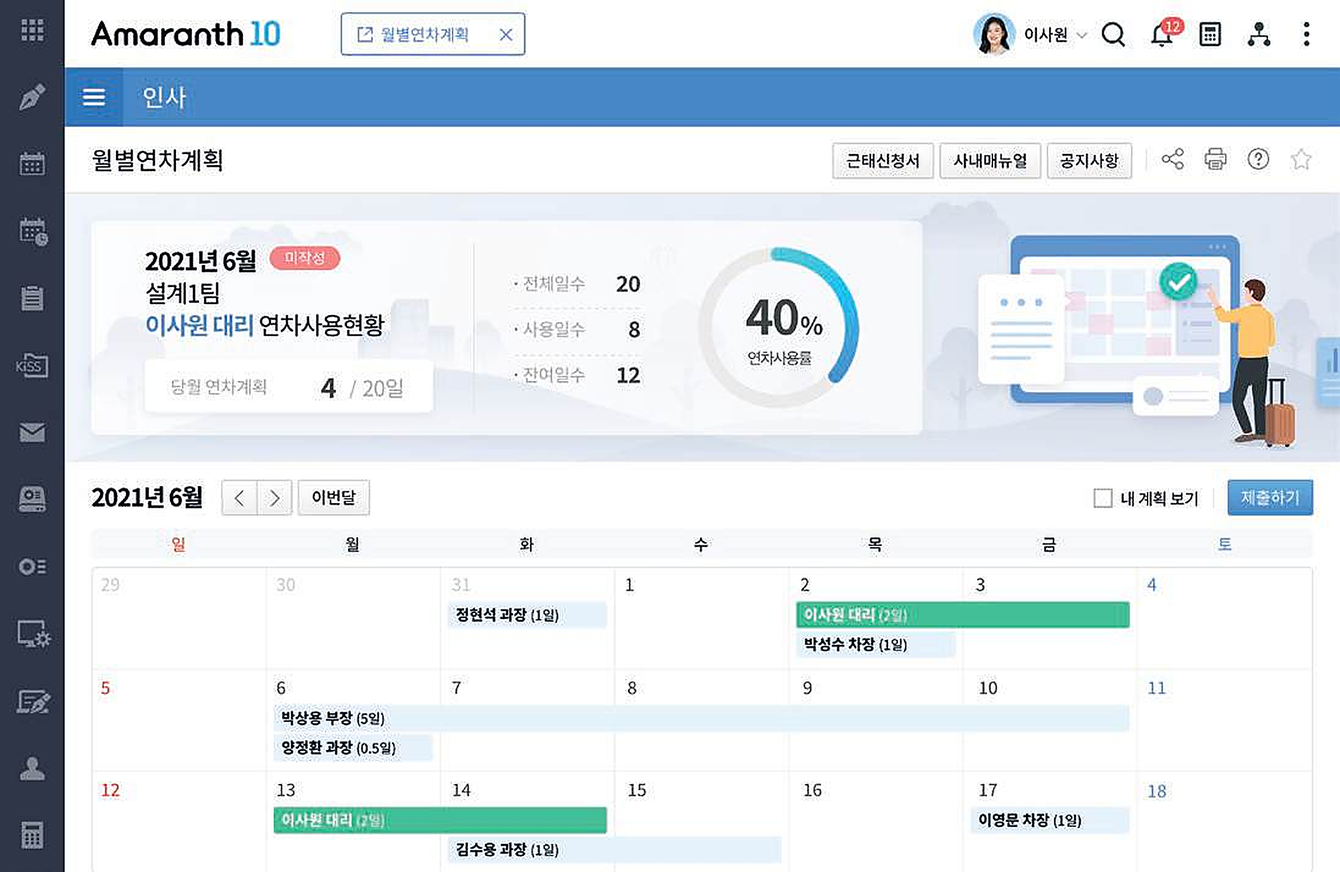
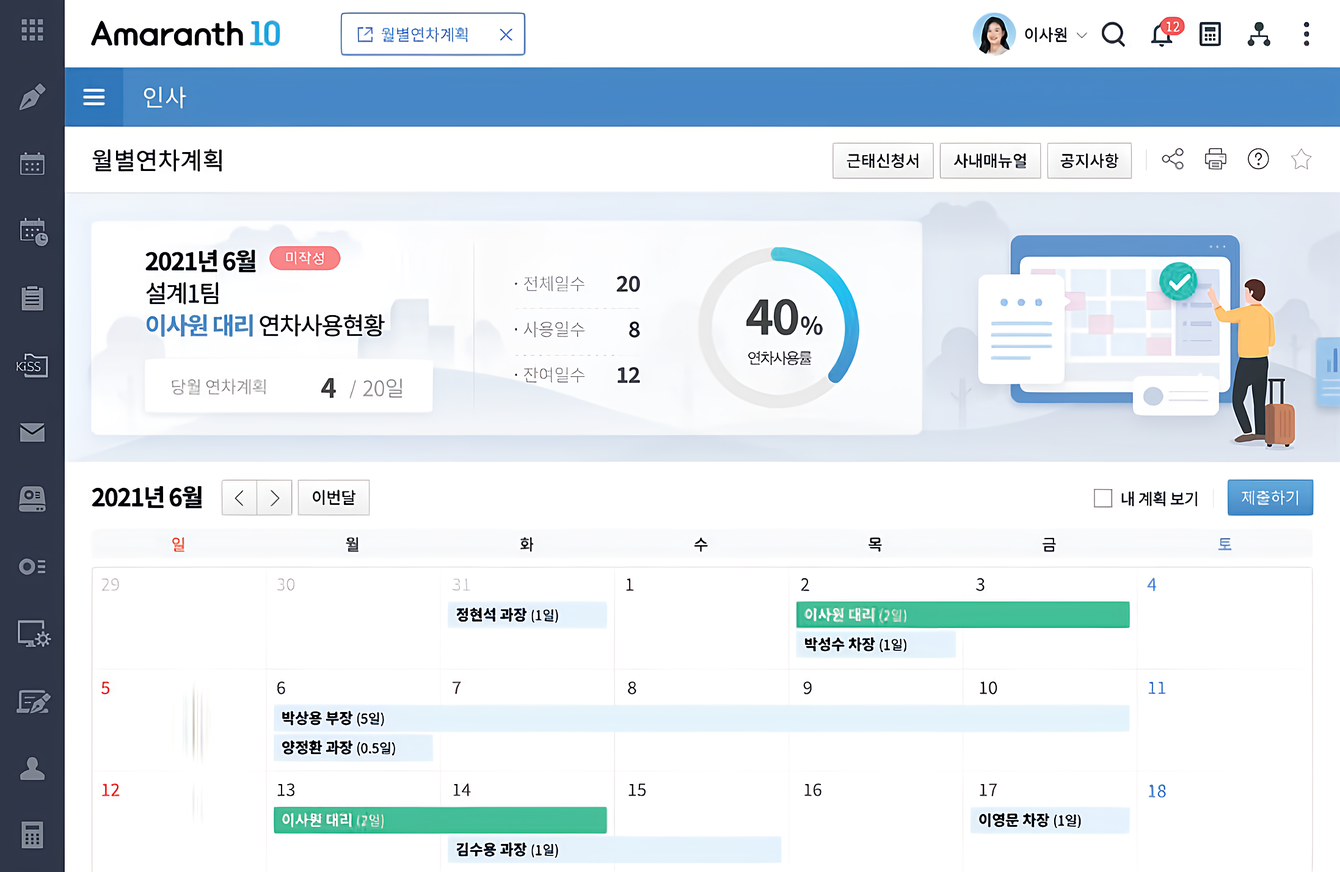
Sharpen the brochure screens with the non-GAN RealESRNet model
RealESRNet_x4plus removes the brochure's JPEG noise without inventing detail; every
output was checked against its source so the Korean glyphs keep their shape.

Claude-Session: https://claude.ai/code/session_01SPawHb8dbXAtWqwsG92Z1g

diff --git a/subpages/product/nonprofit/intro.html b/subpages/product/nonprofit/intro.html
@@ -88,7 +88,7 @@
 						진행할 수 있습니다.
 					</p>
 				<div class="tag-row sb-area-tags" aria-label="회계관리 관련 키워드"><span class="tag">#지출결의</span><span class="tag">#결산</span><span class="tag">#부가가치세관리</span><span class="tag">#금융서비스연동(CMS)</span><span class="tag">#그룹재무제표</span><span class="tag">#자동전표처리</span><span class="tag">#반제처리</span><span class="tag">#자금수지계획</span><span class="tag">#법인세관리</span><span class="tag">#자금일보</span></div></div>
-				<div class="img sb-feature-visual"><figure class="sb-unframed-screen sb-clarity-restored" data-screen-presentation="unframed" style="--sb-screen-ratio:1.536789;--sb-preview-ratio:1.536789;--sb-preview-height:516px;--sb-preview-padding:0px" data-screen-content="complete" data-native-screen="source-041" data-native-review-id="70" data-quality-screen="brochure"><a class="sb-screen-zoom" href="../../../assets/subpages/brochure-screens/automatic-journals.png?v=2" aria-label="Amaranth 10 자동전표처리 실제 제품 화면 크게 보기"><img class="sb-flat-screen" loading="lazy" src="../../../assets/subpages/brochure-screens/automatic-journals.png?v=2" alt="Amaranth 10 자동전표처리 실제 제품 화면" width="1838" height="1196" data-quality-id="source-041"></a></figure></div>
+				<div class="img sb-feature-visual"><figure class="sb-unframed-screen sb-clarity-restored" data-screen-presentation="unframed" style="--sb-screen-ratio:1.536789;--sb-preview-ratio:1.536789;--sb-preview-height:516px;--sb-preview-padding:0px" data-screen-content="complete" data-native-screen="source-041" data-native-review-id="70" data-quality-screen="brochure"><a class="sb-screen-zoom" href="../../../assets/subpages/brochure-screens/automatic-journals.png?v=3" aria-label="Amaranth 10 자동전표처리 실제 제품 화면 크게 보기"><img class="sb-flat-screen" loading="lazy" src="../../../assets/subpages/brochure-screens/automatic-journals.png?v=3" alt="Amaranth 10 자동전표처리 실제 제품 화면" width="1838" height="1196" data-quality-id="source-041"></a></figure></div>
 			</div>
 			<div class="hr02 sb-feature sb-design-row sb-centered-feature sb-zigzag-feature" data-layout="visual-left" data-screen-layout="visual-left">
 				<div class="cont_txt sb-feature-copy">
@@ -509,7 +509,7 @@
                     </p>
                     <div class="tag-row sb-area-tags" aria-label="자동전표처리 관련 키워드"><span class="tag">#자동전표처리</span></div><a href="https://youtu.be/8vVOLh3XUzg?si=iY8KAsuRsYNz-_Nw" class="youtb_btn cta sb-product-cta" data-fancybox="" target="_blank" rel="noopener noreferrer">영상으로 확인하기 </a>
                 </div>
-                <div class="img sb-feature-visual"><figure class="sb-unframed-screen sb-clarity-restored" data-screen-presentation="unframed" style="--sb-screen-ratio:1.536789;--sb-preview-ratio:1.536789;--sb-preview-height:516px;--sb-preview-padding:0px" data-screen-content="complete" data-native-screen="source-041" data-native-review-id="86" data-quality-screen="brochure"><a class="sb-screen-zoom" href="../../../assets/subpages/brochure-screens/automatic-journals.png?v=2" aria-label="Amaranth 10 자동전표처리 실제 제품 화면 크게 보기"><img class="sb-flat-screen" loading="lazy" src="../../../assets/subpages/brochure-screens/automatic-journals.png?v=2" alt="Amaranth 10 자동전표처리 실제 제품 화면" width="1838" height="1196" data-quality-id="source-041"></a></figure></div>
+                <div class="img sb-feature-visual"><figure class="sb-unframed-screen sb-clarity-restored" data-screen-presentation="unframed" style="--sb-screen-ratio:1.536789;--sb-preview-ratio:1.536789;--sb-preview-height:516px;--sb-preview-padding:0px" data-screen-content="complete" data-native-screen="source-041" data-native-review-id="86" data-quality-screen="brochure"><a class="sb-screen-zoom" href="../../../assets/subpages/brochure-screens/automatic-journals.png?v=3" aria-label="Amaranth 10 자동전표처리 실제 제품 화면 크게 보기"><img class="sb-flat-screen" loading="lazy" src="../../../assets/subpages/brochure-screens/automatic-journals.png?v=3" alt="Amaranth 10 자동전표처리 실제 제품 화면" width="1838" height="1196" data-quality-id="source-041"></a></figure></div>
             </div>
             <div class="overview02 sb-feature sb-design-row sb-centered-feature sb-zigzag-feature" data-layout="visual-left" data-screen-layout="visual-left">
                 <div class="cont_txt sb-feature-copy">
@@ -591,7 +591,7 @@
                     </p>
                     <div class="tag-row sb-area-tags" aria-label="자금관리 관련 키워드"><span class="tag">#자금수지계획</span><span class="tag">#자금일보</span></div><a href="https://youtu.be/lMcinptekAo?si=e_etyYmCkUZ8QCJ4" class="youtb_btn cta sb-product-cta" data-fancybox="" target="_blank" rel="noopener noreferrer">영상으로 확인하기 </a>
                 </div>
-                <div class="img sb-feature-visual"><figure class="sb-unframed-screen" data-screen-presentation="unframed" style="--sb-screen-ratio:1.535865;--sb-preview-ratio:1.535865;--sb-preview-height:516px;--sb-preview-padding:0px" data-screen-content="complete" data-native-screen="source-076" data-native-review-id="91" data-quality-screen="brochure"><a class="sb-screen-zoom" href="../../../assets/subpages/brochure-screens/funds.png?v=2" aria-label="Amaranth 10 자금관리 실제 제품 화면 크게 보기"><img class="sb-flat-screen" loading="lazy" src="../../../assets/subpages/brochure-screens/funds.png?v=2" alt="Amaranth 10 자금관리 실제 제품 화면" width="1456" height="948" data-quality-id="source-076"></a></figure></div>
+                <div class="img sb-feature-visual"><figure class="sb-unframed-screen" data-screen-presentation="unframed" style="--sb-screen-ratio:1.535865;--sb-preview-ratio:1.535865;--sb-preview-height:516px;--sb-preview-padding:0px" data-screen-content="complete" data-native-screen="source-076" data-native-review-id="91" data-quality-screen="brochure"><a class="sb-screen-zoom" href="../../../assets/subpages/brochure-screens/funds.png?v=3" aria-label="Amaranth 10 자금관리 실제 제품 화면 크게 보기"><img class="sb-flat-screen" loading="lazy" src="../../../assets/subpages/brochure-screens/funds.png?v=3" alt="Amaranth 10 자금관리 실제 제품 화면" width="1456" height="948" data-quality-id="source-076"></a></figure></div>
             </div>
             <div class="overview07 sb-feature sb-design-row sb-centered-feature sb-zigzag-feature" data-layout="visual-right" data-screen-layout="visual-right">
                 <div class="cont_txt sb-feature-copy">
@@ -624,7 +624,7 @@
                     </p>
                     <div class="tag-row sb-area-tags" aria-label="세무신고자동화 관련 키워드"><span class="tag">#부가가치세관리</span><span class="tag">#법인세관리</span></div><a href="https://youtu.be/KDGEZgJHkpw?si=p0U9GLuG2FRY7U79" class="youtb_btn cta sb-product-cta" data-fancybox="" target="_blank" rel="noopener noreferrer">영상으로 확인하기 </a>
                 </div>
-                <div class="img sb-feature-visual"><figure class="sb-unframed-screen" data-screen-presentation="unframed" style="--sb-screen-ratio:1.536489;--sb-preview-ratio:1.536489;--sb-preview-height:516px;--sb-preview-padding:0px" data-screen-content="complete" data-native-screen="source-079" data-native-review-id="93" data-quality-screen="brochure"><a class="sb-screen-zoom" href="../../../assets/subpages/brochure-screens/tax-filing.png?v=2" aria-label="Amaranth 10 세무신고자동화 제품 화면 크게 보기"><img class="sb-flat-screen" loading="lazy" src="../../../assets/subpages/brochure-screens/tax-filing.png?v=2" alt="Amaranth 10 세무신고자동화 제품 화면" width="1558" height="1014" data-quality-id="source-079"></a></figure></div>
+                <div class="img sb-feature-visual"><figure class="sb-unframed-screen" data-screen-presentation="unframed" style="--sb-screen-ratio:1.536489;--sb-preview-ratio:1.536489;--sb-preview-height:516px;--sb-preview-padding:0px" data-screen-content="complete" data-native-screen="source-079" data-native-review-id="93" data-quality-screen="brochure"><a class="sb-screen-zoom" href="../../../assets/subpages/brochure-screens/tax-filing.png?v=3" aria-label="Amaranth 10 세무신고자동화 제품 화면 크게 보기"><img class="sb-flat-screen" loading="lazy" src="../../../assets/subpages/brochure-screens/tax-filing.png?v=3" alt="Amaranth 10 세무신고자동화 제품 화면" width="1558" height="1014" data-quality-id="source-079"></a></figure></div>
             </div>
             <div class="overview009 sb-feature sb-design-row sb-centered-feature sb-zigzag-feature" data-layout="visual-right" data-screen-layout="visual-right">
                 <div class="cont_txt sb-feature-copy">
@@ -687,7 +687,7 @@
                     </p>
                     <a href="https://youtu.be/6J2EmAe2nEQ?si=Lg2hNhujlv5vkZ82" class="youtb_btn cta sb-product-cta" data-fancybox="" target="_blank" rel="noopener noreferrer">영상으로 확인하기 </a>
                 </div>
-                <div class="img sb-feature-visual"><figure class="sb-unframed-screen sb-clarity-restored" data-screen-presentation="unframed" style="--sb-screen-ratio:1.536415;--sb-preview-ratio:1.536415;--sb-preview-height:516px;--sb-preview-padding:0px" data-screen-content="complete" data-native-screen="source-084" data-native-review-id="97" data-quality-screen="brochure"><a class="sb-screen-zoom" href="../../../assets/subpages/brochure-screens/annual-leave.png?v=2" aria-label="Amaranth 10 연차관리 실제 제품 화면 크게 보기"><img class="sb-flat-screen" loading="lazy" src="../../../assets/subpages/brochure-screens/annual-leave.png?v=2" alt="Amaranth 10 연차관리 실제 제품 화면" width="2194" height="1428" data-quality-id="source-084"></a></figure></div>
+                <div class="img sb-feature-visual"><figure class="sb-unframed-screen sb-clarity-restored" data-screen-presentation="unframed" style="--sb-screen-ratio:1.536415;--sb-preview-ratio:1.536415;--sb-preview-height:516px;--sb-preview-padding:0px" data-screen-content="complete" data-native-screen="source-084" data-native-review-id="97" data-quality-screen="brochure"><a class="sb-screen-zoom" href="../../../assets/subpages/brochure-screens/annual-leave.png?v=3" aria-label="Amaranth 10 연차관리 실제 제품 화면 크게 보기"><img class="sb-flat-screen" loading="lazy" src="../../../assets/subpages/brochure-screens/annual-leave.png?v=3" alt="Amaranth 10 연차관리 실제 제품 화면" width="2194" height="1428" data-quality-id="source-084"></a></figure></div>
             </div>
             <div class="hr04 sb-feature sb-design-row sb-centered-feature sb-zigzag-feature" data-layout="visual-right" data-screen-layout="visual-left">
                 <div class="cont_txt sb-feature-copy">
@@ -703,7 +703,7 @@
                     </p>
                     <a href="https://youtu.be/XEPKYA6YHpk?si=0drrsWrU1AXwEn0H" class="youtb_btn cta sb-product-cta" data-fancybox="" target="_blank" rel="noopener noreferrer">영상으로 확인하기 </a>
                 </div>
-                <div class="img sb-feature-visual"><figure class="sb-unframed-screen sb-clarity-restored" data-screen-presentation="unframed" style="--sb-screen-ratio:1.535019;--sb-preview-ratio:1.535019;--sb-preview-height:516px;--sb-preview-padding:0px" data-screen-content="complete" data-native-screen="source-086" data-native-review-id="98" data-quality-screen="brochure"><a class="sb-screen-zoom" href="../../../assets/subpages/brochure-screens/payroll.png?v=2" aria-label="Amaranth 10 급여관리 실제 제품 화면 크게 보기"><img class="sb-flat-screen" loading="lazy" src="../../../assets/subpages/brochure-screens/payroll.png?v=2" alt="Amaranth 10 급여관리 실제 제품 화면" width="1578" height="1028" data-quality-id="source-086"></a></figure></div>
+                <div class="img sb-feature-visual"><figure class="sb-unframed-screen sb-clarity-restored" data-screen-presentation="unframed" style="--sb-screen-ratio:1.535019;--sb-preview-ratio:1.535019;--sb-preview-height:516px;--sb-preview-padding:0px" data-screen-content="complete" data-native-screen="source-086" data-native-review-id="98" data-quality-screen="brochure"><a class="sb-screen-zoom" href="../../../assets/subpages/brochure-screens/payroll.png?v=3" aria-label="Amaranth 10 급여관리 실제 제품 화면 크게 보기"><img class="sb-flat-screen" loading="lazy" src="../../../assets/subpages/brochure-screens/payroll.png?v=3" alt="Amaranth 10 급여관리 실제 제품 화면" width="1578" height="1028" data-quality-id="source-086"></a></figure></div>
             </div>
             <div class="hr05 sb-feature sb-design-row sb-centered-feature sb-zigzag-feature" data-layout="visual-left" data-screen-layout="visual-right">
                 <div class="cont_txt sb-feature-copy">

diff --git a/subpages/product/amaranth10/lm.html b/subpages/product/amaranth10/lm.html
@@ -108,7 +108,7 @@
                         연계해 효율적인 업무 처리 기능을 제공합니다.
                     </p>
                 </div>
-                <div class="img sb-feature-visual"><figure class="sb-unframed-screen" data-screen-presentation="unframed" style="--sb-screen-ratio:1.619469;--sb-preview-ratio:1.619469;--sb-preview-height:516px;--sb-preview-padding:0px" data-screen-content="complete" data-native-screen="source-103" data-native-review-id="121" data-quality-screen="brochure"><a class="sb-screen-zoom" href="../../../assets/subpages/brochure-screens/mps.png?v=2" aria-label="Amaranth 10 주생산계획등록(MPS) 실제 제품 화면 크게 보기"><img class="sb-flat-screen" loading="lazy" src="../../../assets/subpages/brochure-screens/mps.png?v=2" alt="Amaranth 10 주생산계획등록(MPS) 실제 제품 화면" width="1464" height="904" data-quality-id="source-103"></a></figure></div>
+                <div class="img sb-feature-visual"><figure class="sb-unframed-screen" data-screen-presentation="unframed" style="--sb-screen-ratio:1.619469;--sb-preview-ratio:1.619469;--sb-preview-height:516px;--sb-preview-padding:0px" data-screen-content="complete" data-native-screen="source-103" data-native-review-id="121" data-quality-screen="brochure"><a class="sb-screen-zoom" href="../../../assets/subpages/brochure-screens/mps.png?v=3" aria-label="Amaranth 10 주생산계획등록(MPS) 실제 제품 화면 크게 보기"><img class="sb-flat-screen" loading="lazy" src="../../../assets/subpages/brochure-screens/mps.png?v=3" alt="Amaranth 10 주생산계획등록(MPS) 실제 제품 화면" width="1464" height="904" data-quality-id="source-103"></a></figure></div>
             </div>
             <div class="lm07 sb-feature sb-design-row sb-centered-feature sb-zigzag-feature" data-layout="visual-right" data-screen-layout="visual-right">
                 <div class="cont_txt sb-feature-copy">
@@ -160,7 +160,7 @@
                         환율 환종 관리 기능을 제공합니다.
                     </p>
                 </div>
-                <div class="img sb-feature-visual"><figure class="sb-unframed-screen" data-screen-presentation="unframed" style="--sb-screen-ratio:1.622642;--sb-preview-ratio:1.622642;--sb-preview-height:516px;--sb-preview-padding:0px" data-screen-content="complete" data-native-screen="source-109" data-native-review-id="124" data-quality-screen="brochure"><a class="sb-screen-zoom" href="../../../assets/subpages/brochure-screens/domestic-overseas-sales.png?v=2" aria-label="Amaranth 10 국내/외 영업통합관리 실제 제품 화면 크게 보기"><img class="sb-flat-screen" loading="lazy" src="../../../assets/subpages/brochure-screens/domestic-overseas-sales.png?v=2" alt="Amaranth 10 국내/외 영업통합관리 실제 제품 화면" width="1548" height="954" data-quality-id="source-109"></a></figure></div>
+                <div class="img sb-feature-visual"><figure class="sb-unframed-screen" data-screen-presentation="unframed" style="--sb-screen-ratio:1.622642;--sb-preview-ratio:1.622642;--sb-preview-height:516px;--sb-preview-padding:0px" data-screen-content="complete" data-native-screen="source-109" data-native-review-id="124" data-quality-screen="brochure"><a class="sb-screen-zoom" href="../../../assets/subpages/brochure-screens/domestic-overseas-sales.png?v=3" aria-label="Amaranth 10 국내/외 영업통합관리 실제 제품 화면 크게 보기"><img class="sb-flat-screen" loading="lazy" src="../../../assets/subpages/brochure-screens/domestic-overseas-sales.png?v=3" alt="Amaranth 10 국내/외 영업통합관리 실제 제품 화면" width="1548" height="954" data-quality-id="source-109"></a></figure></div>
             </div>
         </div>
 	</div></main><footer><div class="footer-top"><div><a class="footer-brand" href="../../../index.html"><img src="../../../assets/ax-logo.png" alt="AX and More"><img src="../../../assets/logo.png" alt="DOUZONE 아이원소프트뱅크"></a><p>ERP · 그룹웨어 · 시스템 연동 · 맞춤 개발까지<br>비즈니스 환경에 최적화된 솔루션을 제공합니다.</p></div><div class="socials"><a href="https://cafe.naver.com/ionesoftbank" target="_blank" rel="noopener noreferrer"><img src="../../../assets/social-cafe.png" alt="카페"></a><a href="https://www.instagram.com/ione130501" target="_blank" rel="noopener noreferrer"><img src="../../../assets/social-instagram.png" alt="인스타그램"></a><a href="https://blog.naver.com/zhogksgjqm" target="_blank" rel="noopener noreferrer"><img src="../../../assets/social-blog.png" alt="블로그"></a><a href="http://pf.kakao.com/_xnFVzK" target="_blank" rel="noopener noreferrer"><img src="../../../assets/social-kakao.png" alt="카카오톡"></a><a href="https://youtube.com/@IONEsoftBK_official" target="_blank" rel="noopener noreferrer"><img src="../../../assets/social-youtube.png" alt="유튜브"></a></div></div><nav><button type="button" data-modal="privacy">개인정보 처리방침</button><button type="button" data-modal="terms">이용약관</button><a href="../../../subpages/company/location.html">오시는 길</a></nav><p>아이원소프트뱅크㈜ 대표 : 황명희 · 사업자등록번호 : 113-86-70956 · 통신판매신고번호 : 2017-서울구로-0617<br>주소 : 서울특별시 구로구 디지털로 285 에이스트윈타워 1차 405호<br>구매상담문의 : 1877-0256 · 고객센터 : 1877-1859 · iCUBE / G20 : 1877-0840 · 블루멤버십 : 1600-4208 · 테스트 계정 신청 : 070-4497-3388<br><br>COPYRIGHT © 2026 아이원소프트뱅크㈜. All rights reserved.</p></footer><section class="legal-modal" id="privacy-modal" aria-hidden="true" role="dialog" aria-modal="true" aria-labelledby="privacy-title"><div class="legal-dialog"><button class="modal-close" type="button" aria-label="닫기">×</button><h2 id="privacy-title">개인정보 처리방침</h2><div class="legal-scroll">문서를 불러오는 중입니다.</div></div></section><section class="legal-modal" id="terms-modal" aria-hidden="true" role="dialog" aria-modal="true" aria-labelledby="terms-title"><div class="legal-dialog"><button class="modal-close" type="button" aria-label="닫기">×</button><h2 id="terms-title">이용약관</h2><div class="legal-scroll">문서를 불러오는 중입니다.</div></div></section><dialog class="sb-preview-dialog"><p>공개 페이지 기반 미리보기입니다. 이 기능은 기존 사이트에서 이용할 수 있습니다.</p><a href="https://www.duzon119.co.kr/product/amaranth10/lm.asp">기존 페이지 열기 ↗</a><button type="button">닫기</button></dialog></div><script src="../../../app.js?v=20261023-3" defer=""></script></body></html>

diff --git a/subpages/product/amaranth10/overview.html b/subpages/product/amaranth10/overview.html
@@ -29,7 +29,7 @@
                     </p>
                     <div class="tag-row sb-area-tags" aria-label="자동전표처리 관련 키워드"><span class="tag">#자동전표처리</span></div><a href="https://youtu.be/8vVOLh3XUzg?si=iY8KAsuRsYNz-_Nw" class="youtb_btn cta sb-product-cta" data-fancybox="" target="_blank" rel="noopener noreferrer">영상으로 확인하기 </a>
                 </div>
-                <div class="img sb-feature-visual"><figure class="sb-unframed-screen sb-clarity-restored" data-screen-presentation="unframed" style="--sb-screen-ratio:1.536789;--sb-preview-ratio:1.536789;--sb-preview-height:516px;--sb-preview-padding:0px" data-screen-content="complete" data-native-screen="source-041" data-native-review-id="107" data-quality-screen="brochure"><a class="sb-screen-zoom" href="../../../assets/subpages/brochure-screens/automatic-journals.png?v=2" aria-label="Amaranth 10 자동전표처리 실제 제품 화면 크게 보기"><img class="sb-flat-screen" loading="lazy" src="../../../assets/subpages/brochure-screens/automatic-journals.png?v=2" alt="Amaranth 10 자동전표처리 실제 제품 화면" width="1838" height="1196" data-quality-id="source-041"></a></figure></div>
+                <div class="img sb-feature-visual"><figure class="sb-unframed-screen sb-clarity-restored" data-screen-presentation="unframed" style="--sb-screen-ratio:1.536789;--sb-preview-ratio:1.536789;--sb-preview-height:516px;--sb-preview-padding:0px" data-screen-content="complete" data-native-screen="source-041" data-native-review-id="107" data-quality-screen="brochure"><a class="sb-screen-zoom" href="../../../assets/subpages/brochure-screens/automatic-journals.png?v=3" aria-label="Amaranth 10 자동전표처리 실제 제품 화면 크게 보기"><img class="sb-flat-screen" loading="lazy" src="../../../assets/subpages/brochure-screens/automatic-journals.png?v=3" alt="Amaranth 10 자동전표처리 실제 제품 화면" width="1838" height="1196" data-quality-id="source-041"></a></figure></div>
             </div>
             <div class="overview02 sb-feature sb-design-row sb-centered-feature sb-zigzag-feature" data-layout="visual-left" data-screen-layout="visual-left">
                 <div class="cont_txt sb-feature-copy">
@@ -111,7 +111,7 @@
                     </p>
                     <div class="tag-row sb-area-tags" aria-label="자금관리 관련 키워드"><span class="tag">#자금수지계획</span><span class="tag">#자금일보</span></div><a href="https://youtu.be/lMcinptekAo?si=e_etyYmCkUZ8QCJ4" class="youtb_btn cta sb-product-cta" data-fancybox="" target="_blank" rel="noopener noreferrer">영상으로 확인하기 </a>
                 </div>
-                <div class="img sb-feature-visual"><figure class="sb-unframed-screen" data-screen-presentation="unframed" style="--sb-screen-ratio:1.535865;--sb-preview-ratio:1.535865;--sb-preview-height:516px;--sb-preview-padding:0px" data-screen-content="complete" data-native-screen="source-076" data-native-review-id="112" data-quality-screen="brochure"><a class="sb-screen-zoom" href="../../../assets/subpages/brochure-screens/funds.png?v=2" aria-label="Amaranth 10 자금관리 실제 제품 화면 크게 보기"><img class="sb-flat-screen" loading="lazy" src="../../../assets/subpages/brochure-screens/funds.png?v=2" alt="Amaranth 10 자금관리 실제 제품 화면" width="1456" height="948" data-quality-id="source-076"></a></figure></div>
+                <div class="img sb-feature-visual"><figure class="sb-unframed-screen" data-screen-presentation="unframed" style="--sb-screen-ratio:1.535865;--sb-preview-ratio:1.535865;--sb-preview-height:516px;--sb-preview-padding:0px" data-screen-content="complete" data-native-screen="source-076" data-native-review-id="112" data-quality-screen="brochure"><a class="sb-screen-zoom" href="../../../assets/subpages/brochure-screens/funds.png?v=3" aria-label="Amaranth 10 자금관리 실제 제품 화면 크게 보기"><img class="sb-flat-screen" loading="lazy" src="../../../assets/subpages/brochure-screens/funds.png?v=3" alt="Amaranth 10 자금관리 실제 제품 화면" width="1456" height="948" data-quality-id="source-076"></a></figure></div>
             </div>
             <div class="overview07 sb-feature sb-design-row sb-centered-feature sb-zigzag-feature" data-layout="visual-right" data-screen-layout="visual-right">
                 <div class="cont_txt sb-feature-copy">
@@ -144,7 +144,7 @@
                     </p>
                     <div class="tag-row sb-area-tags" aria-label="세무신고자동화 관련 키워드"><span class="tag">#부가가치세관리</span><span class="tag">#법인세관리</span></div><a href="https://youtu.be/KDGEZgJHkpw?si=p0U9GLuG2FRY7U79" class="youtb_btn cta sb-product-cta" data-fancybox="" target="_blank" rel="noopener noreferrer">영상으로 확인하기 </a>
                 </div>
-                <div class="img sb-feature-visual"><figure class="sb-unframed-screen" data-screen-presentation="unframed" style="--sb-screen-ratio:1.536489;--sb-preview-ratio:1.536489;--sb-preview-height:516px;--sb-preview-padding:0px" data-screen-content="complete" data-native-screen="source-079" data-native-review-id="114" data-quality-screen="brochure"><a class="sb-screen-zoom" href="../../../assets/subpages/brochure-screens/tax-filing.png?v=2" aria-label="Amaranth 10 세무신고자동화 제품 화면 크게 보기"><img class="sb-flat-screen" loading="lazy" src="../../../assets/subpages/brochure-screens/tax-filing.png?v=2" alt="Amaranth 10 세무신고자동화 제품 화면" width="1558" height="1014" data-quality-id="source-079"></a></figure></div>
+                <div class="img sb-feature-visual"><figure class="sb-unframed-screen" data-screen-presentation="unframed" style="--sb-screen-ratio:1.536489;--sb-preview-ratio:1.536489;--sb-preview-height:516px;--sb-preview-padding:0px" data-screen-content="complete" data-native-screen="source-079" data-native-review-id="114" data-quality-screen="brochure"><a class="sb-screen-zoom" href="../../../assets/subpages/brochure-screens/tax-filing.png?v=3" aria-label="Amaranth 10 세무신고자동화 제품 화면 크게 보기"><img class="sb-flat-screen" loading="lazy" src="../../../assets/subpages/brochure-screens/tax-filing.png?v=3" alt="Amaranth 10 세무신고자동화 제품 화면" width="1558" height="1014" data-quality-id="source-079"></a></figure></div>
             </div>
             <div class="overview009 sb-feature sb-design-row sb-centered-feature sb-zigzag-feature" data-layout="visual-right" data-screen-layout="visual-right">
                 <div class="cont_txt sb-feature-copy">

diff --git a/subpages/product/amaranth10/hr.html b/subpages/product/amaranth10/hr.html
@@ -58,7 +58,7 @@
                     </p>
                     <a href="https://youtu.be/6J2EmAe2nEQ?si=Lg2hNhujlv5vkZ82" class="youtb_btn cta sb-product-cta" data-fancybox="" target="_blank" rel="noopener noreferrer">영상으로 확인하기 </a>
                 </div>
-                <div class="img sb-feature-visual"><figure class="sb-unframed-screen sb-clarity-restored" data-screen-presentation="unframed" style="--sb-screen-ratio:1.536415;--sb-preview-ratio:1.536415;--sb-preview-height:516px;--sb-preview-padding:0px" data-screen-content="complete" data-native-screen="source-084" data-native-review-id="127" data-quality-screen="brochure"><a class="sb-screen-zoom" href="../../../assets/subpages/brochure-screens/annual-leave.png?v=2" aria-label="Amaranth 10 연차관리 실제 제품 화면 크게 보기"><img class="sb-flat-screen" loading="lazy" src="../../../assets/subpages/brochure-screens/annual-leave.png?v=2" alt="Amaranth 10 연차관리 실제 제품 화면" width="2194" height="1428" data-quality-id="source-084"></a></figure></div>
+                <div class="img sb-feature-visual"><figure class="sb-unframed-screen sb-clarity-restored" data-screen-presentation="unframed" style="--sb-screen-ratio:1.536415;--sb-preview-ratio:1.536415;--sb-preview-height:516px;--sb-preview-padding:0px" data-screen-content="complete" data-native-screen="source-084" data-native-review-id="127" data-quality-screen="brochure"><a class="sb-screen-zoom" href="../../../assets/subpages/brochure-screens/annual-leave.png?v=3" aria-label="Amaranth 10 연차관리 실제 제품 화면 크게 보기"><img class="sb-flat-screen" loading="lazy" src="../../../assets/subpages/brochure-screens/annual-leave.png?v=3" alt="Amaranth 10 연차관리 실제 제품 화면" width="2194" height="1428" data-quality-id="source-084"></a></figure></div>
             </div>
             <div class="hr04 sb-feature sb-design-row sb-centered-feature sb-zigzag-feature" data-layout="visual-left" data-screen-layout="visual-left">
                 <div class="cont_txt sb-feature-copy">
@@ -74,7 +74,7 @@
                     </p>
                     <a href="https://youtu.be/XEPKYA6YHpk?si=0drrsWrU1AXwEn0H" class="youtb_btn cta sb-product-cta" data-fancybox="" target="_blank" rel="noopener noreferrer">영상으로 확인하기 </a>
                 </div>
-                <div class="img sb-feature-visual"><figure class="sb-unframed-screen sb-clarity-restored" data-screen-presentation="unframed" style="--sb-screen-ratio:1.535019;--sb-preview-ratio:1.535019;--sb-preview-height:516px;--sb-preview-padding:0px" data-screen-content="complete" data-native-screen="source-086" data-native-review-id="128" data-quality-screen="brochure"><a class="sb-screen-zoom" href="../../../assets/subpages/brochure-screens/payroll.png?v=2" aria-label="Amaranth 10 급여관리 실제 제품 화면 크게 보기"><img class="sb-flat-screen" loading="lazy" src="../../../assets/subpages/brochure-screens/payroll.png?v=2" alt="Amaranth 10 급여관리 실제 제품 화면" width="1578" height="1028" data-quality-id="source-086"></a></figure></div>
+                <div class="img sb-feature-visual"><figure class="sb-unframed-screen sb-clarity-restored" data-screen-presentation="unframed" style="--sb-screen-ratio:1.535019;--sb-preview-ratio:1.535019;--sb-preview-height:516px;--sb-preview-padding:0px" data-screen-content="complete" data-native-screen="source-086" data-native-review-id="128" data-quality-screen="brochure"><a class="sb-screen-zoom" href="../../../assets/subpages/brochure-screens/payroll.png?v=3" aria-label="Amaranth 10 급여관리 실제 제품 화면 크게 보기"><img class="sb-flat-screen" loading="lazy" src="../../../assets/subpages/brochure-screens/payroll.png?v=3" alt="Amaranth 10 급여관리 실제 제품 화면" width="1578" height="1028" data-quality-id="source-086"></a></figure></div>
             </div>
             <div class="hr05 sb-feature sb-design-row sb-centered-feature sb-zigzag-feature" data-layout="visual-right" data-screen-layout="visual-right">
                 <div class="cont_txt sb-feature-copy">

diff --git a/tools/prepare-brochure-screens.py b/tools/prepare-brochure-screens.py
@@ -2,19 +2,51 @@
 
 The brochure embeds the original captures with correct, legible text, so they replace the
 clarity-restored screens whose text came out garbled. Sources were pulled with
-`pdfimages -png` (pages 18-22); here they are enlarged 2x with Lanczos and given a light
-unsharp mask for high-DPI screens. No generative or learned upscaler is used: Real-ESRGAN was
-tried and reshaped Korean glyphs (기본급, 지방소득세), so the pixels are only resampled.
+`pdfimages -png` (pages 18-22) into sources/.
+
+Enlargement: RealESRNet_x4plus (the PSNR-trained, non-GAN Real-ESRGAN model, which removes
+JPEG noise without inventing detail), run on CPU through spandrel, then reduced to 2x with
+Lanczos and a light unsharp mask. The GAN model RealESRGAN_x4plus was tried and rejected
+because it reshaped Korean glyphs (기본급, 지방소득세). Every output was checked against
+its source at 6x zoom.
+
+Usage: python3 tools/prepare-brochure-screens.py path/to/RealESRNet_x4plus.pth
+(needs torch, spandrel; weights from github.com/xinntao/Real-ESRGAN releases v0.1.1)
 """
+import sys
 from pathlib import Path
+
+import numpy as np
+import torch
 from PIL import Image, ImageFilter
+from spandrel import ModelLoader
 
 ROOT = Path(__file__).resolve().parents[1]
 folder = ROOT / 'assets/subpages/brochure-screens'
+model = ModelLoader().load_from_file(sys.argv[1]).eval()
+
+
+def enlarge(image, tile=256, pad=16):
+    scale = model.scale
+    data = torch.from_numpy(np.asarray(image, dtype=np.float32) / 255).permute(2, 0, 1)[None]
+    _, _, height, width = data.shape
+    out = torch.zeros(1, 3, height * scale, width * scale)
+    for y in range(0, height, tile):
+        for x in range(0, width, tile):
+            y0, x0 = max(y - pad, 0), max(x - pad, 0)
+            y1, x1 = min(y + tile + pad, height), min(x + tile + pad, width)
+            with torch.no_grad():
+                part = model(data[:, :, y0:y1, x0:x1])
+            th, tw = min(tile, height - y) * scale, min(tile, width - x) * scale
+            oy, ox = (y - y0) * scale, (x - x0) * scale
+            out[:, :, y * scale:y * scale + th, x * scale:x * scale + tw] = part[:, :, oy:oy + th, ox:ox + tw]
+    return Image.fromarray((out[0].clamp(0, 1).permute(1, 2, 0).numpy() * 255).round().astype(np.uint8))
+
+
 for source in sorted((folder / 'sources').glob('*.png')):
     with Image.open(source) as image:
         image = image.convert('RGB')
-        output = folder / source.name
-        enlarged = image.resize((image.width * 2, image.height * 2), Image.LANCZOS)
-        enlarged.filter(ImageFilter.UnsharpMask(radius=1.6, percent=110, threshold=2)).save(output, optimize=True)
-        print(f'{output.name}: {image.width * 2}x{image.height * 2}')
+        size = (image.width * 2, image.height * 2)
+        result = enlarge(image).resize(size, Image.LANCZOS)
+        result.filter(ImageFilter.UnsharpMask(radius=1.2, percent=60, threshold=2)).save(folder / source.name, optimize=True)
+        print(f'{source.name}: {size[0]}x{size[1]}')
